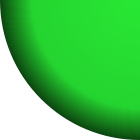
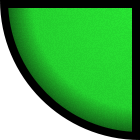
Updated the images for the <SImonGameBoard/>

Changed region(s): [[0.0, 0.0, 1.0, 1.0]]

diff --git a/app/components/simon__game/index.js b/app/components/simon__game/index.js
@@ -92,66 +92,62 @@ class SimonGame extends React.Component {
         const { pad0, pad1, pad2, pad3 } = this.state
 
         return (
-            <BlackContainer>
-                <SimonGameContainer>
+            <SimonGameContainer>
 
-                    <HorizontalBar />
-                    <VerticleBar />
-                    <Center>
-                        <Round>{ this.props.round }</Round>
-                    </Center>
+                <Center>
+                    <Round>{ this.props.round }</Round>
+                </Center>
 
-                    <SimonPad
-                        style={{top: 0, left: 0}}
-                        index={ 0 }
-                        source={ pad0.isAnimating || pads[0].isAnimating ?
-                            require("../../assets/images/top_left_pad_active.png") :
-                            require("../../assets/images/top_left_pad.png")
-                        }
-                        isAnimating={ pad0.isAnimating || pads[0].isAnimating }
-                        onPress={ () => this.handlePadPress(0) }
-                        onPressIn={ () => this.setState({ pad0: { isAnimating: true } })}
-                        onPressOut={ () => this.setState({ pad0: { isAnimating: false }}) } />
+                <SimonPad
+                    style={{top: 0, left: 0}}
+                    index={ 0 }
+                    source={ pad0.isAnimating || pads[0].isAnimating ?
+                        require("../../assets/images/top_left_pad_active.png") :
+                        require("../../assets/images/top_left_pad.png")
+                    }
+                    isAnimating={ pad0.isAnimating || pads[0].isAnimating }
+                    onPress={ () => this.handlePadPress(0) }
+                    onPressIn={ () => this.setState({ pad0: { isAnimating: true } })}
+                    onPressOut={ () => this.setState({ pad0: { isAnimating: false }}) } />
 
-                    <SimonPad
-                        style={{top: 0, right: 0}}
-                        index={ 1 }
-                        source={ pad1.isAnimating || pads[1].isAnimating ?
-                            require("../../assets/images/top_right_pad_active.png") :
-                            require("../../assets/images/top_right_pad.png")
-                        }
-                        isAnimating={ pad1.isAnimating || pads[1].isAnimating }
-                        onPress={ () => this.handlePadPress(1) }
-                        onPressIn={ () => this.setState({ pad1: { isAnimating: true } })}
-                        onPressOut={ () => this.setState({ pad1: { isAnimating: false }}) } />
+                <SimonPad
+                    style={{top: 0, right: 0}}
+                    index={ 1 }
+                    source={ pad1.isAnimating || pads[1].isAnimating ?
+                        require("../../assets/images/top_right_pad_active.png") :
+                        require("../../assets/images/top_right_pad.png")
+                    }
+                    isAnimating={ pad1.isAnimating || pads[1].isAnimating }
+                    onPress={ () => this.handlePadPress(1) }
+                    onPressIn={ () => this.setState({ pad1: { isAnimating: true } })}
+                    onPressOut={ () => this.setState({ pad1: { isAnimating: false }}) } />
 
-                    <SimonPad
-                        style={{bottom: 0, left: 0}}
-                        index={ 2 }
-                        source={ pad2.isAnimating || pads[2].isAnimating ?
-                            require("../../assets/images/bottom_left_pad_active.png") :
-                            require("../../assets/images/bottom_left_pad.png")
-                        }
-                        isAnimating={ pad2.isAnimating || pads[2].isAnimating }
-                        onPress={ () => this.handlePadPress(2) }
-                        onPressIn={ () => this.setState({ pad2: { isAnimating: true } })}
-                        onPressOut={ () => this.setState({ pad2: { isAnimating: false }}) } />
+                <SimonPad
+                    style={{bottom: 0, left: 0}}
+                    index={ 2 }
+                    source={ pad2.isAnimating || pads[2].isAnimating ?
+                        require("../../assets/images/bottom_left_pad_active.png") :
+                        require("../../assets/images/bottom_left_pad.png")
+                    }
+                    isAnimating={ pad2.isAnimating || pads[2].isAnimating }
+                    onPress={ () => this.handlePadPress(2) }
+                    onPressIn={ () => this.setState({ pad2: { isAnimating: true } })}
+                    onPressOut={ () => this.setState({ pad2: { isAnimating: false }}) } />
 
-                    <SimonPad
-                        style={{bottom: 0, right: 0}}
-                        index={ 3 }
-                        source={ pad3.isAnimating || pads[3].isAnimating ?
-                            require("../../assets/images/bottom_right_pad_active.png") :
-                            require("../../assets/images/bottom_right_pad.png")
-                        }
-                        isAnimating={ pad3.isAnimating || pads[3].isAnimating }
-                        onPress={ () => this.handlePadPress(3) }
-                        onPressIn={ () => this.setState({ pad3: { isAnimating: true } })}
-                        onPressOut={ () => this.setState({ pad3: { isAnimating: false }}) } />
+                <SimonPad
+                    style={{bottom: 0, right: 0}}
+                    index={ 3 }
+                    source={ pad3.isAnimating || pads[3].isAnimating ?
+                        require("../../assets/images/bottom_right_pad_active.png") :
+                        require("../../assets/images/bottom_right_pad.png")
+                    }
+                    isAnimating={ pad3.isAnimating || pads[3].isAnimating }
+                    onPress={ () => this.handlePadPress(3) }
+                    onPressIn={ () => this.setState({ pad3: { isAnimating: true } })}
+                    onPressOut={ () => this.setState({ pad3: { isAnimating: false }}) } />
 
-                    <TintedBG show={ isScreenDarkened } />
-                </SimonGameContainer>
-            </BlackContainer>
+                <TintedBG show={ isScreenDarkened } />
+            </SimonGameContainer>
         )
     }
 }
